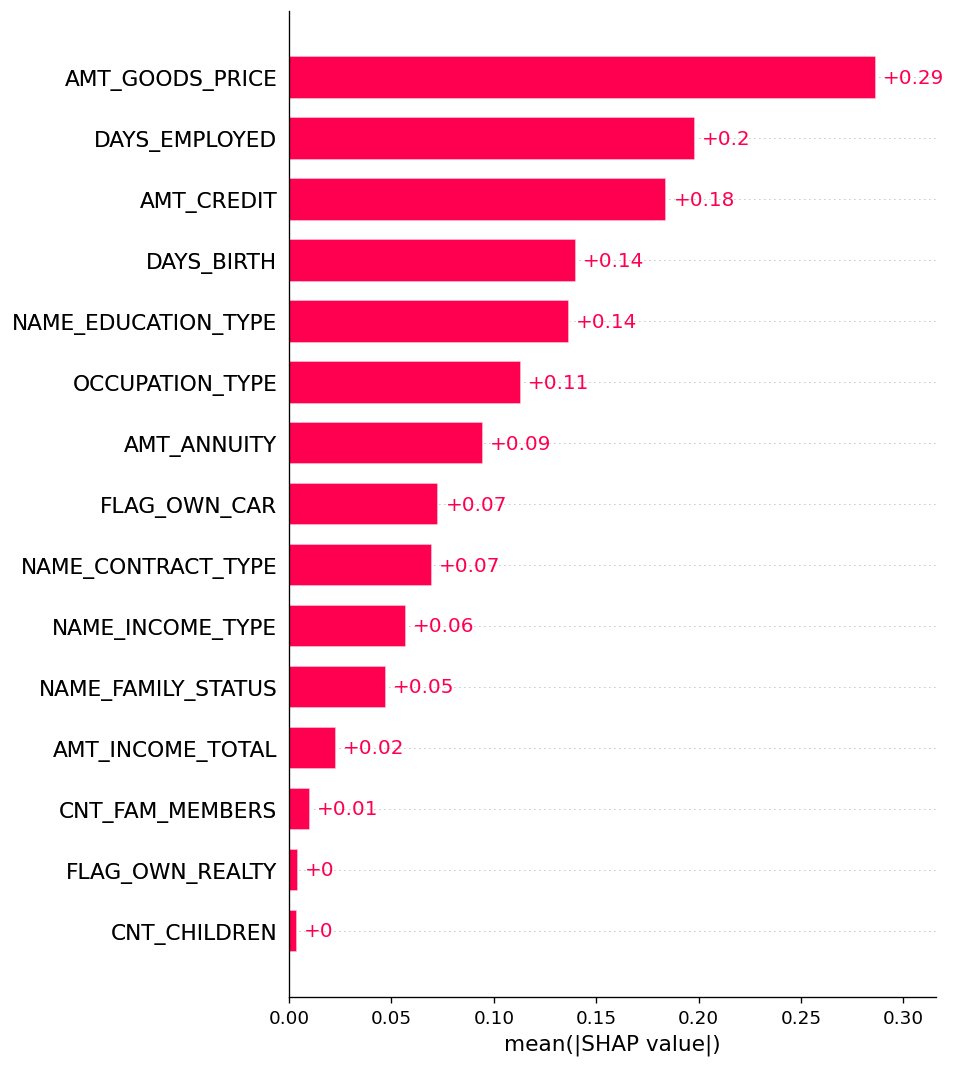
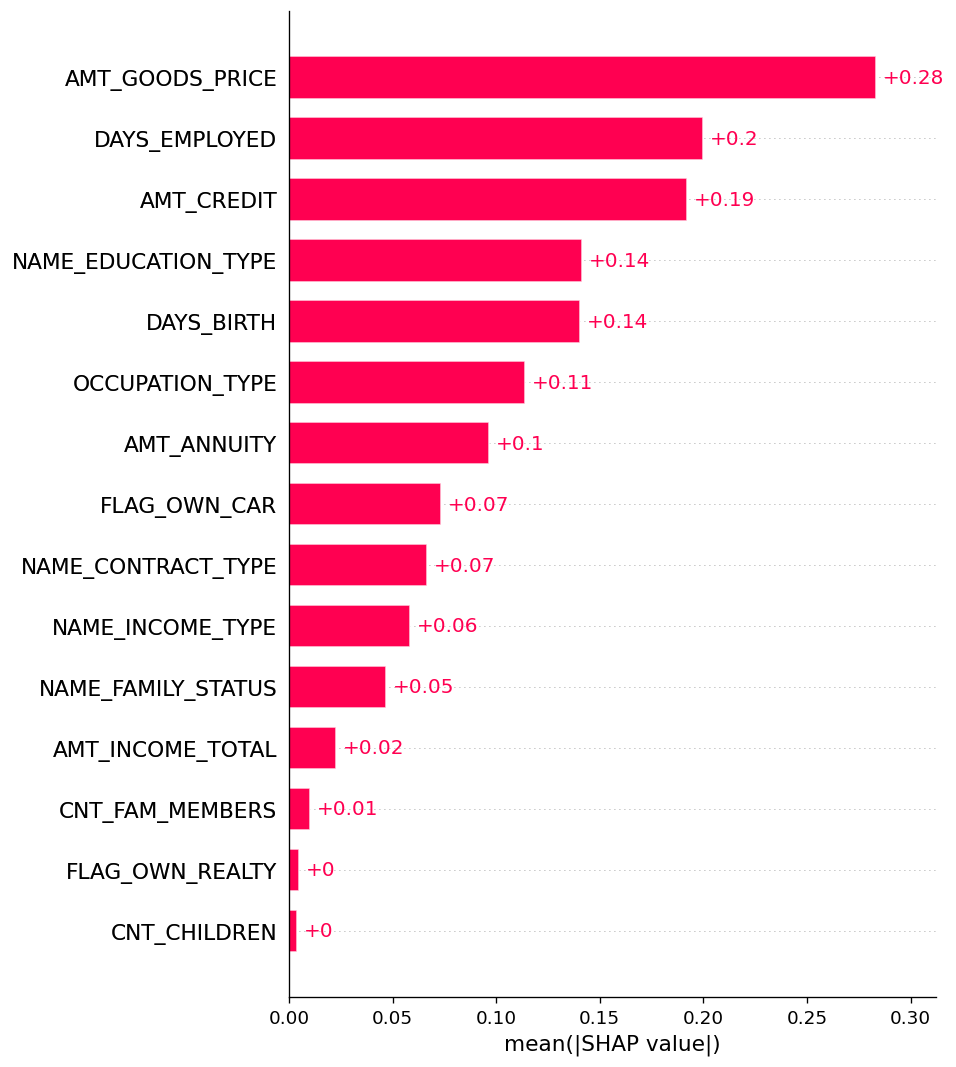
tighten public demo evaluation and API guardrails (#11)

diff --git a/src/explain.py b/src/explain.py
@@ -24,9 +24,7 @@ from src.model_profiles import ModelProfile
 from src.preprocessing import split_data
 from src.reason_codes import reason_codes
 
-SHAP_SAMPLE_SIZE = (
-    3000  # full validation set (61k rows) isn't needed for a stable importance ranking
-)
+SHAP_SAMPLE_SIZE = 3000  # full test set (61k rows) isn't needed for a stable importance ranking
 
 
 def load_model_bundle(profile: ModelProfile):
@@ -42,6 +40,17 @@ def compute_shap_values(model, X: pd.DataFrame) -> shap.Explanation:
 def shap_raw_scores(base_values: np.ndarray, shap_values: np.ndarray) -> np.ndarray:
     """Reconstruct LightGBM's raw margin from Tree SHAP's additive components."""
     return np.asarray(base_values) + np.asarray(shap_values).sum(axis=1)
+
+
+def explanation_holdout(df: pd.DataFrame) -> pd.DataFrame:
+    """Return the untouched test fold for published explanation and calibration artefacts.
+
+    The saved model is refit on train plus validation rows after tuning. Reusing validation here
+    would therefore make the visual diagnostics in-sample, even though the headline test metrics
+    remain honest.
+    """
+    _train, _validation, test = split_data(df, seed=RANDOM_SEED)
+    return test
 
 
 def validate_shap_additivity(model, X: pd.DataFrame, explanation: shap.Explanation) -> None:
@@ -107,13 +116,13 @@ def main() -> None:
     args = parse_args()
     profile = ModelProfile(args.profile)
     df = load_application_data()
-    _train, val, _test = split_data(df, seed=RANDOM_SEED)
+    test = explanation_holdout(df)
 
     bundle = load_model_bundle(profile)
     model = bundle.model
 
-    val_X = build_lgbm_features(val, profile=profile)
-    sample = val_X.sample(n=SHAP_SAMPLE_SIZE, random_state=RANDOM_SEED)
+    test_X = build_lgbm_features(test, profile=profile)
+    sample = test_X.sample(n=SHAP_SAMPLE_SIZE, random_state=RANDOM_SEED)
     explanation = compute_shap_values(model, sample)
     validate_shap_additivity(model, sample, explanation)
 
@@ -133,7 +142,7 @@ def main() -> None:
     proba = model.predict_proba(sample)[:, 1]
     riskiest = np.argsort(proba)[-2:][::-1]
     for rank, row_idx in enumerate(riskiest, start=1):
-        applicant_id = val.loc[sample.index[row_idx], "SK_ID_CURR"]
+        applicant_id = test.loc[sample.index[row_idx], "SK_ID_CURR"]
         shap_row = pd.Series(explanation.values[row_idx], index=sample.columns)
         feature_row = sample.iloc[row_idx]
 
@@ -146,9 +155,9 @@ def main() -> None:
         for code in codes:
             print(f"  - {code}")
 
-    # calibration on the full validation set, not just the SHAP sample — more stable bin estimates
-    full_val_pred = model.predict_proba(val_X)[:, 1]
-    calibration = calibration_summary(val[TARGET_COL], full_val_pred)
+    # Calibration uses the untouched test set, not just the SHAP sample, for stable bin estimates.
+    full_test_pred = model.predict_proba(test_X)[:, 1]
+    calibration = calibration_summary(test[TARGET_COL], full_test_pred)
     plot_calibration_curve(calibration, FIGURES_DIR / f"{profile.value}_calibration_curve.png")
     print(f"Brier score: {calibration['brier_score']:.4f}")
 

diff --git a/api/main.py b/api/main.py
@@ -1,8 +1,7 @@
 """FastAPI credit-decision service: POST /predict scores one applicant end to end.
 
-Model artifacts (the trained LightGBM model, its category encodings, and training-set medians
-for reason-code phrasing) are loaded once at startup, not per request — retraining or reloading
-happens by restarting the service, not on the request path.
+Model artifacts (the trained LightGBM model, category encodings, and release metadata) are loaded
+once at startup, not per request. A new model takes effect when the service restarts.
 """
 
 from contextlib import asynccontextmanager
@@ -11,10 +10,12 @@ from fastapi import FastAPI, HTTPException, Request
 from fastapi.exceptions import RequestValidationError
 from fastapi.responses import JSONResponse
 
+from api.rate_limit import PredictionRateLimiter
 from api.schemas import ApplicantRequest, PredictResponse
 from api.scoring import InvalidApplicantError, load_artifacts, score_applicant
 
 state: dict = {}
+prediction_rate_limiter = PredictionRateLimiter()
 
 
 @asynccontextmanager
@@ -33,6 +34,18 @@ app = FastAPI(
     version="1.2.0",
     lifespan=lifespan,
 )
+
+
+@app.middleware("http")
+async def limit_prediction_requests(request: Request, call_next):
+    if request.url.path == "/predict":
+        client_id = request.client.host if request.client else "unknown"
+        if not prediction_rate_limiter.allow(client_id):
+            return JSONResponse(
+                status_code=429,
+                content={"detail": "prediction limit reached; try again in one minute"},
+            )
+    return await call_next(request)
 
 
 @app.exception_handler(RequestValidationError)

diff --git a/src/eda.py b/src/eda.py
@@ -25,7 +25,7 @@ def plot_target_imbalance(df: pd.DataFrame, out_path) -> None:
     fig, ax = plt.subplots(figsize=(5, 4))
     ax.bar(balance.index, balance.values, color=["#2a6f97", "#c1121f"])
     ax.set_ylabel("share of applicants")
-    ax.set_title(f"Target imbalance ({balance['defaulted (1)']:.1%} defaulted)")
+    ax.set_title(f"Target imbalance ({balance['payment difficulty (1)']:.1%} payment difficulty)")
     for i, v in enumerate(balance.values):
         ax.text(i, v + 0.01, f"{v:.1%}", ha="center")
     fig.tight_layout()
@@ -78,9 +78,11 @@ def write_eda_summary(df: pd.DataFrame, missing: pd.DataFrame, corr: pd.Series, 
         "",
         "## Why accuracy is the wrong metric",
         "",
-        f"{balance['defaulted (1)']:.1%} of applicants defaulted. A model that predicts "
+        f"{balance['payment difficulty (1)']:.1%} of applicants had a recorded payment difficulty event. "
+        "The competition does not disclose the exact delinquency threshold, so this project does not "
+        "treat the target as a legally defined default. A model that predicts "
         f"'repaid' for every single applicant hits {balance['repaid (0)']:.1%} accuracy while "
-        "identifying zero of the defaults a lender actually cares about. AUC, precision-recall, "
+        "identifying none of those events. AUC, precision-recall, "
         "and the KS statistic (computed later against LightGBM) all separate the classes; "
         "accuracy collapses them.",
         "",

diff --git a/api/schemas.py b/api/schemas.py
@@ -11,13 +11,22 @@ class ApplicantRequest(BaseModel):
     years_employed: float | None = Field(
         None, ge=0, le=60, description="Years in current employment; omit if not currently employed"
     )
-    income_total: float = Field(..., gt=0, description="Annual income in dataset monetary units")
-    credit_amount: float = Field(
-        ..., gt=0, description="Requested loan amount in dataset monetary units"
+    # Credit and goods-price limits are the maximum observed source values. Income is capped below
+    # the dataset's isolated 117m outlier so a public form cannot generate meaningless SHAP text.
+    income_total: float = Field(
+        ...,
+        gt=0,
+        le=5_000_000,
+        description="Annual income in dataset monetary units (up to 5,000,000)",
     )
-    annuity: float = Field(..., gt=0, description="Monthly repayment in dataset monetary units")
+    credit_amount: float = Field(
+        ..., gt=0, le=4_050_000, description="Requested loan amount in dataset monetary units"
+    )
+    annuity: float = Field(
+        ..., gt=0, le=300_000, description="Monthly repayment in dataset monetary units"
+    )
     goods_price: float | None = Field(
-        None, gt=0, description="Price of goods financed, if applicable"
+        None, gt=0, le=4_050_000, description="Price of goods financed, if applicable"
     )
     owns_car: bool = False
     owns_realty: bool = False

diff --git a/src/data_loader.py b/src/data_loader.py
@@ -18,7 +18,7 @@ def load_application_data(path: Path = RAW_TRAIN_PATH) -> pd.DataFrame:
 
 def target_balance(df: pd.DataFrame) -> pd.Series:
     counts = df[TARGET_COL].value_counts(normalize=True).sort_index()
-    counts.index = ["repaid (0)", "defaulted (1)"]
+    counts.index = ["repaid (0)", "payment difficulty (1)"]
     return counts
 
 
@@ -40,10 +40,10 @@ def write_data_dictionary(df: pd.DataFrame, missing: pd.DataFrame, out_path: Pat
         "threshold in the public data, so this project does not invent one.",
         "",
         f"Target balance: {balance['repaid (0)']:.1%} repaid against "
-        f"{balance['defaulted (1)']:.1%} defaulted, "
-        f"a {balance['repaid (0)'] / balance['defaulted (1)']:.1f}:1 imbalance. "
+        f"{balance['payment difficulty (1)']:.1%} payment difficulty events, "
+        f"a {balance['repaid (0)'] / balance['payment difficulty (1)']:.1f}:1 imbalance. "
         "Accuracy is meaningless here: a model that predicts 'repaid' for every applicant "
-        f"scores {balance['repaid (0)']:.1%} accuracy while catching zero defaults.",
+        f"scores {balance['repaid (0)']:.1%} accuracy while identifying no payment difficulty events.",
         "",
         f"## Missing values ({len(missing)} of {df.shape[1]} columns affected)",
         "",

diff --git a/api/rate_limit.py b/api/rate_limit.py
@@ -1,0 +1,27 @@
+"""Small in-process guard for the public prediction endpoint.
+
+Render runs this demo as a single instance. A per-IP fixed window is enough to stop an accidental
+loop from tying up SHAP calculations; a production multi-instance service should enforce the same
+policy at the edge or in shared storage.
+"""
+
+from collections import defaultdict, deque
+from time import monotonic
+
+
+class PredictionRateLimiter:
+    def __init__(self, limit: int = 20, window_seconds: float = 60) -> None:
+        self.limit = limit
+        self.window_seconds = window_seconds
+        self._requests: dict[str, deque[float]] = defaultdict(deque)
+
+    def allow(self, client_id: str, now: float | None = None) -> bool:
+        now = monotonic() if now is None else now
+        requests = self._requests[client_id]
+        window_start = now - self.window_seconds
+        while requests and requests[0] <= window_start:
+            requests.popleft()
+        if len(requests) >= self.limit:
+            return False
+        requests.append(now)
+        return True

diff --git a/tests/test_explain.py b/tests/test_explain.py
@@ -1,7 +1,8 @@
 import numpy as np
 import pandas as pd
 
-from src.explain import shap_raw_scores
+from src.explain import explanation_holdout, shap_raw_scores
+from src.preprocessing import split_data
 from src.reason_codes import humanize_feature, reason_codes
 
 
@@ -69,3 +70,19 @@ def test_shap_raw_scores_add_base_value_to_all_feature_contributions() -> None:
     scores = shap_raw_scores(base_values, values)
 
     np.testing.assert_allclose(scores, [-1.9, -1.1])
+
+
+def test_explanation_holdout_is_the_untouched_test_fold() -> None:
+    """The final model is refit on train+validation, so explanation plots must use test rows."""
+    applications = pd.DataFrame(
+        {
+            "SK_ID_CURR": range(1, 41),
+            "TARGET": [0, 1] * 20,
+            "AMT_CREDIT": np.linspace(100_000, 400_000, 40),
+        }
+    )
+    _train, _validation, expected_test = split_data(applications)
+
+    holdout = explanation_holdout(applications)
+
+    assert holdout.index.equals(expected_test.index)

diff --git a/tests/test_api.py b/tests/test_api.py
@@ -158,6 +158,22 @@ def test_predict_rejects_zero_income(client: TestClient) -> None:
     assert response.status_code == 422
 
 
+def test_predict_rejects_income_above_public_contract_limit(client: TestClient) -> None:
+    applicant = {**VALID_APPLICANT, "income_total": 5_000_001}
+
+    response = client.post("/predict", json=applicant)
+
+    assert response.status_code == 422
+
+
+def test_predict_rejects_credit_above_observed_product_limit(client: TestClient) -> None:
+    applicant = {**VALID_APPLICANT, "credit_amount": 4_050_001}
+
+    response = client.post("/predict", json=applicant)
+
+    assert response.status_code == 422
+
+
 def test_predict_accepts_missing_optional_goods_price_and_occupation(client: TestClient) -> None:
     minimal = {
         "age_years": 25,

diff --git a/tests/test_rate_limit.py b/tests/test_rate_limit.py
@@ -1,0 +1,16 @@
+from api.rate_limit import PredictionRateLimiter
+
+
+def test_rate_limiter_blocks_the_next_request_after_the_window_quota() -> None:
+    limiter = PredictionRateLimiter(limit=2, window_seconds=60)
+
+    assert limiter.allow("198.51.100.7", now=100.0)
+    assert limiter.allow("198.51.100.7", now=101.0)
+    assert not limiter.allow("198.51.100.7", now=102.0)
+
+
+def test_rate_limiter_allows_requests_again_after_the_window_expires() -> None:
+    limiter = PredictionRateLimiter(limit=1, window_seconds=60)
+
+    assert limiter.allow("198.51.100.7", now=100.0)
+    assert limiter.allow("198.51.100.7", now=160.0)

diff --git a/tests/test_data_loader.py b/tests/test_data_loader.py
@@ -22,7 +22,7 @@ def toy_applications() -> pd.DataFrame:
 def test_target_balance_matches_known_ratio(toy_applications: pd.DataFrame) -> None:
     balance = target_balance(toy_applications)
     assert balance["repaid (0)"] == pytest.approx(0.75)
-    assert balance["defaulted (1)"] == pytest.approx(0.25)
+    assert balance["payment difficulty (1)"] == pytest.approx(0.25)
 
 
 def test_missing_value_report_excludes_complete_columns(toy_applications: pd.DataFrame) -> None:

diff --git a/reports/model_card.md b/reports/model_card.md
@@ -20,6 +20,11 @@ income type, family status, and occupation. It excludes gender, external credit-
 organisation type, regional density, and car age. The dashboard exposes every required field and
 its categorical choices are constrained to the fitted category levels.
 
+The endpoint rejects values outside its public contract before scoring. Income is limited to
+5,000,000, credit and goods price to 4,050,000, and annuity to 300,000 dataset monetary units;
+these limits prevent source-data outliers and malformed requests from producing misleading reason
+codes. It also allows at most 20 predictions per IP address per minute on the single-instance demo.
+
 Data is split 60/20/20 with stratification and seed 42. Five-fold cross-validation on the training
 fold selects hyperparameters. Early stopping on validation chooses the tree count. The selected
 model is refit on the combined train and validation folds, and the test fold is used once for the
@@ -52,6 +57,10 @@ Each response includes the three largest local SHAP contributions. They describe
 features moved a score relative to the model baseline; they are not causal findings or legally
 sufficient adverse-action reasons. Raw day-count features are translated into years and amounts
 into dataset monetary units before being shown.
+
+Global SHAP plots and the calibration curve use a 3,000-row sample and the full untouched test
+fold respectively. The final model is trained on train plus validation data, so using validation
+rows for those published artefacts would have made them in-sample diagnostics.
 
 The dashboard displays an illustrative 12-month loss estimate: `PD × 45% LGD × requested credit`.
 It is not an IFRS 9 provision. The separate ECL report adds stage assignment, survival-weighted

diff --git a/reports/eda_summary.md b/reports/eda_summary.md
@@ -2,7 +2,7 @@
 
 ## Why accuracy is the wrong metric
 
-8.1% of applicants defaulted. A model that predicts 'repaid' for every single applicant hits 91.9% accuracy while identifying zero of the defaults a lender actually cares about. AUC, precision-recall, and the KS statistic (computed later against LightGBM) all separate the classes; accuracy collapses them.
+8.1% of applicants had a recorded payment difficulty event. The competition does not disclose the exact delinquency threshold, so this project does not treat the target as a legally defined default. A model that predicts 'repaid' for every single applicant hits 91.9% accuracy while identifying none of those events. AUC, precision-recall, and the KS statistic (computed later against LightGBM) all separate the classes; accuracy collapses them.
 
 ## Five findings
 
